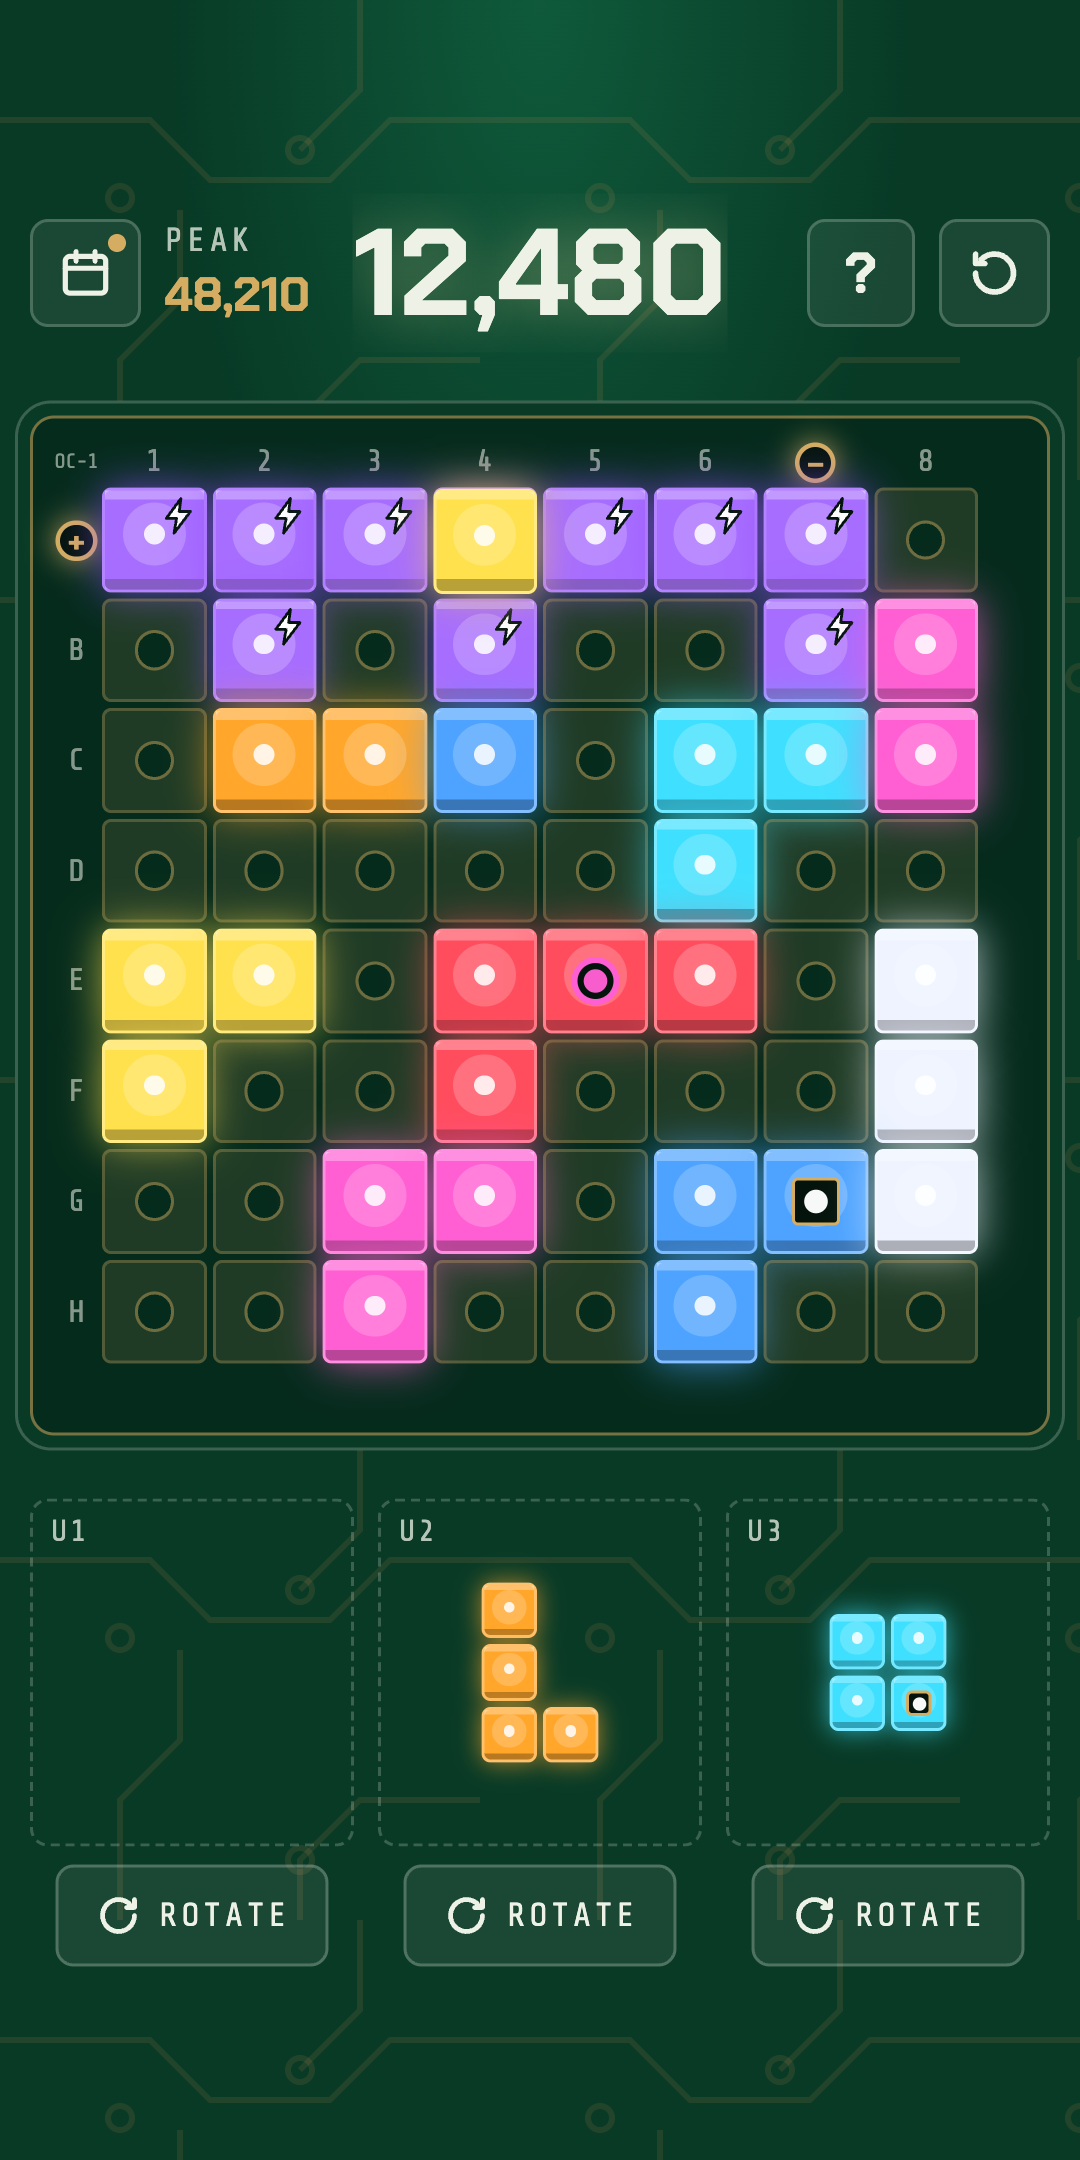
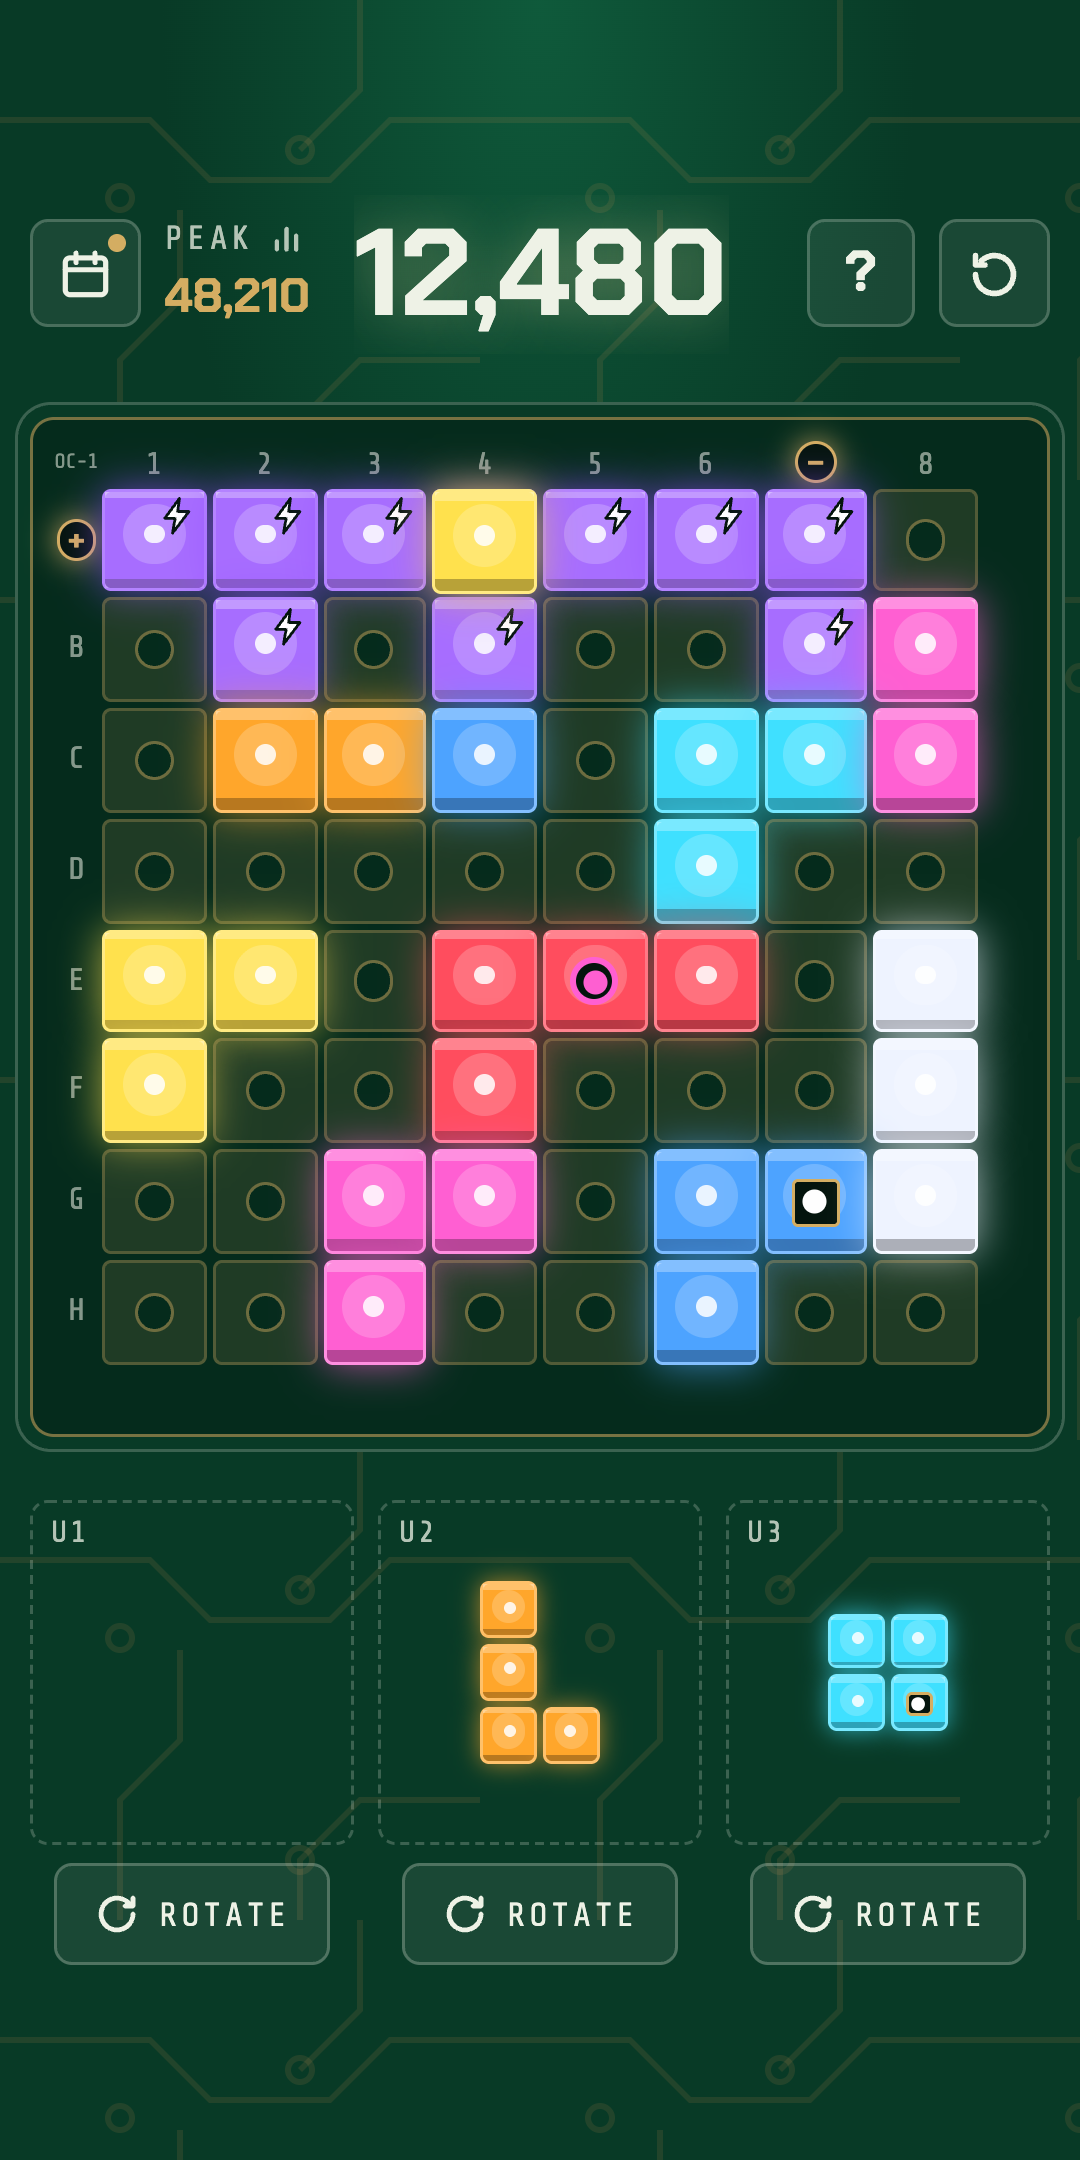
Retake the store screenshots and add one of the stats panel
The screenshots predated the stats panel, so the top bar was missing the stats icon beside Peak and the rules shot showed the old Help layout. Add a fifth screenshot of the stats panel for both stores.

scripts/store-screenshots.mjs retakes all ten from the web dev server in headless Chrome. It seeds the saved game, stats and daily record, and fixes the date on Daily #26, so each run gives the same boards.

diff --git a/store/README.md b/store/README.md
@@ -20,7 +20,7 @@ The privacy and support pages are `public/privacy/` and `public/support/`. They 
 | `feature-graphic.png`       | Google Play feature graphic, 1024×500, made from `feature-graphic.html` |
 | `play-icon.png`             | Google Play icon, 512×512                                               |
 
-The screenshots come from the web build in Chrome at those viewport sizes, with seeded games: a mid-game board, a circuit preview mid-drag, a finished daily and the rules.
+The screenshots come from the web app in Chrome at those viewport sizes, with seeded games: a mid-game board, a circuit preview mid-drag, a finished daily, the rules and the stats panel. To retake them after a UI change, run `npx expo start --web`, then `node scripts/store-screenshots.mjs`. It drives Chrome headless and overwrites `screenshots/`. Set `APP_URL` if the dev server isn't on port 8081, and `CHROME` if Chrome isn't in `/Applications`.
 
 ## Google Play listing
 

diff --git a/README.md b/README.md
@@ -126,6 +126,7 @@ src/format.ts           number formatting
 src/components/         Board, Tray, Ghost, Shadow, Hud, Sheet, Help, Stats, Fx, GameOver, Led, ErrorBoundary, Background, Icons
 src/__tests__/          unit tests
 scripts/make-sounds.mjs synthesizes the sound effects into assets/sounds/
+scripts/store-screenshots.mjs retakes the store screenshots from the web app
 public/                 privacy and support pages, copied into the web build
 store/                  store listing, screenshots and launch checklist; App Store text is in store.config.json
 ```
